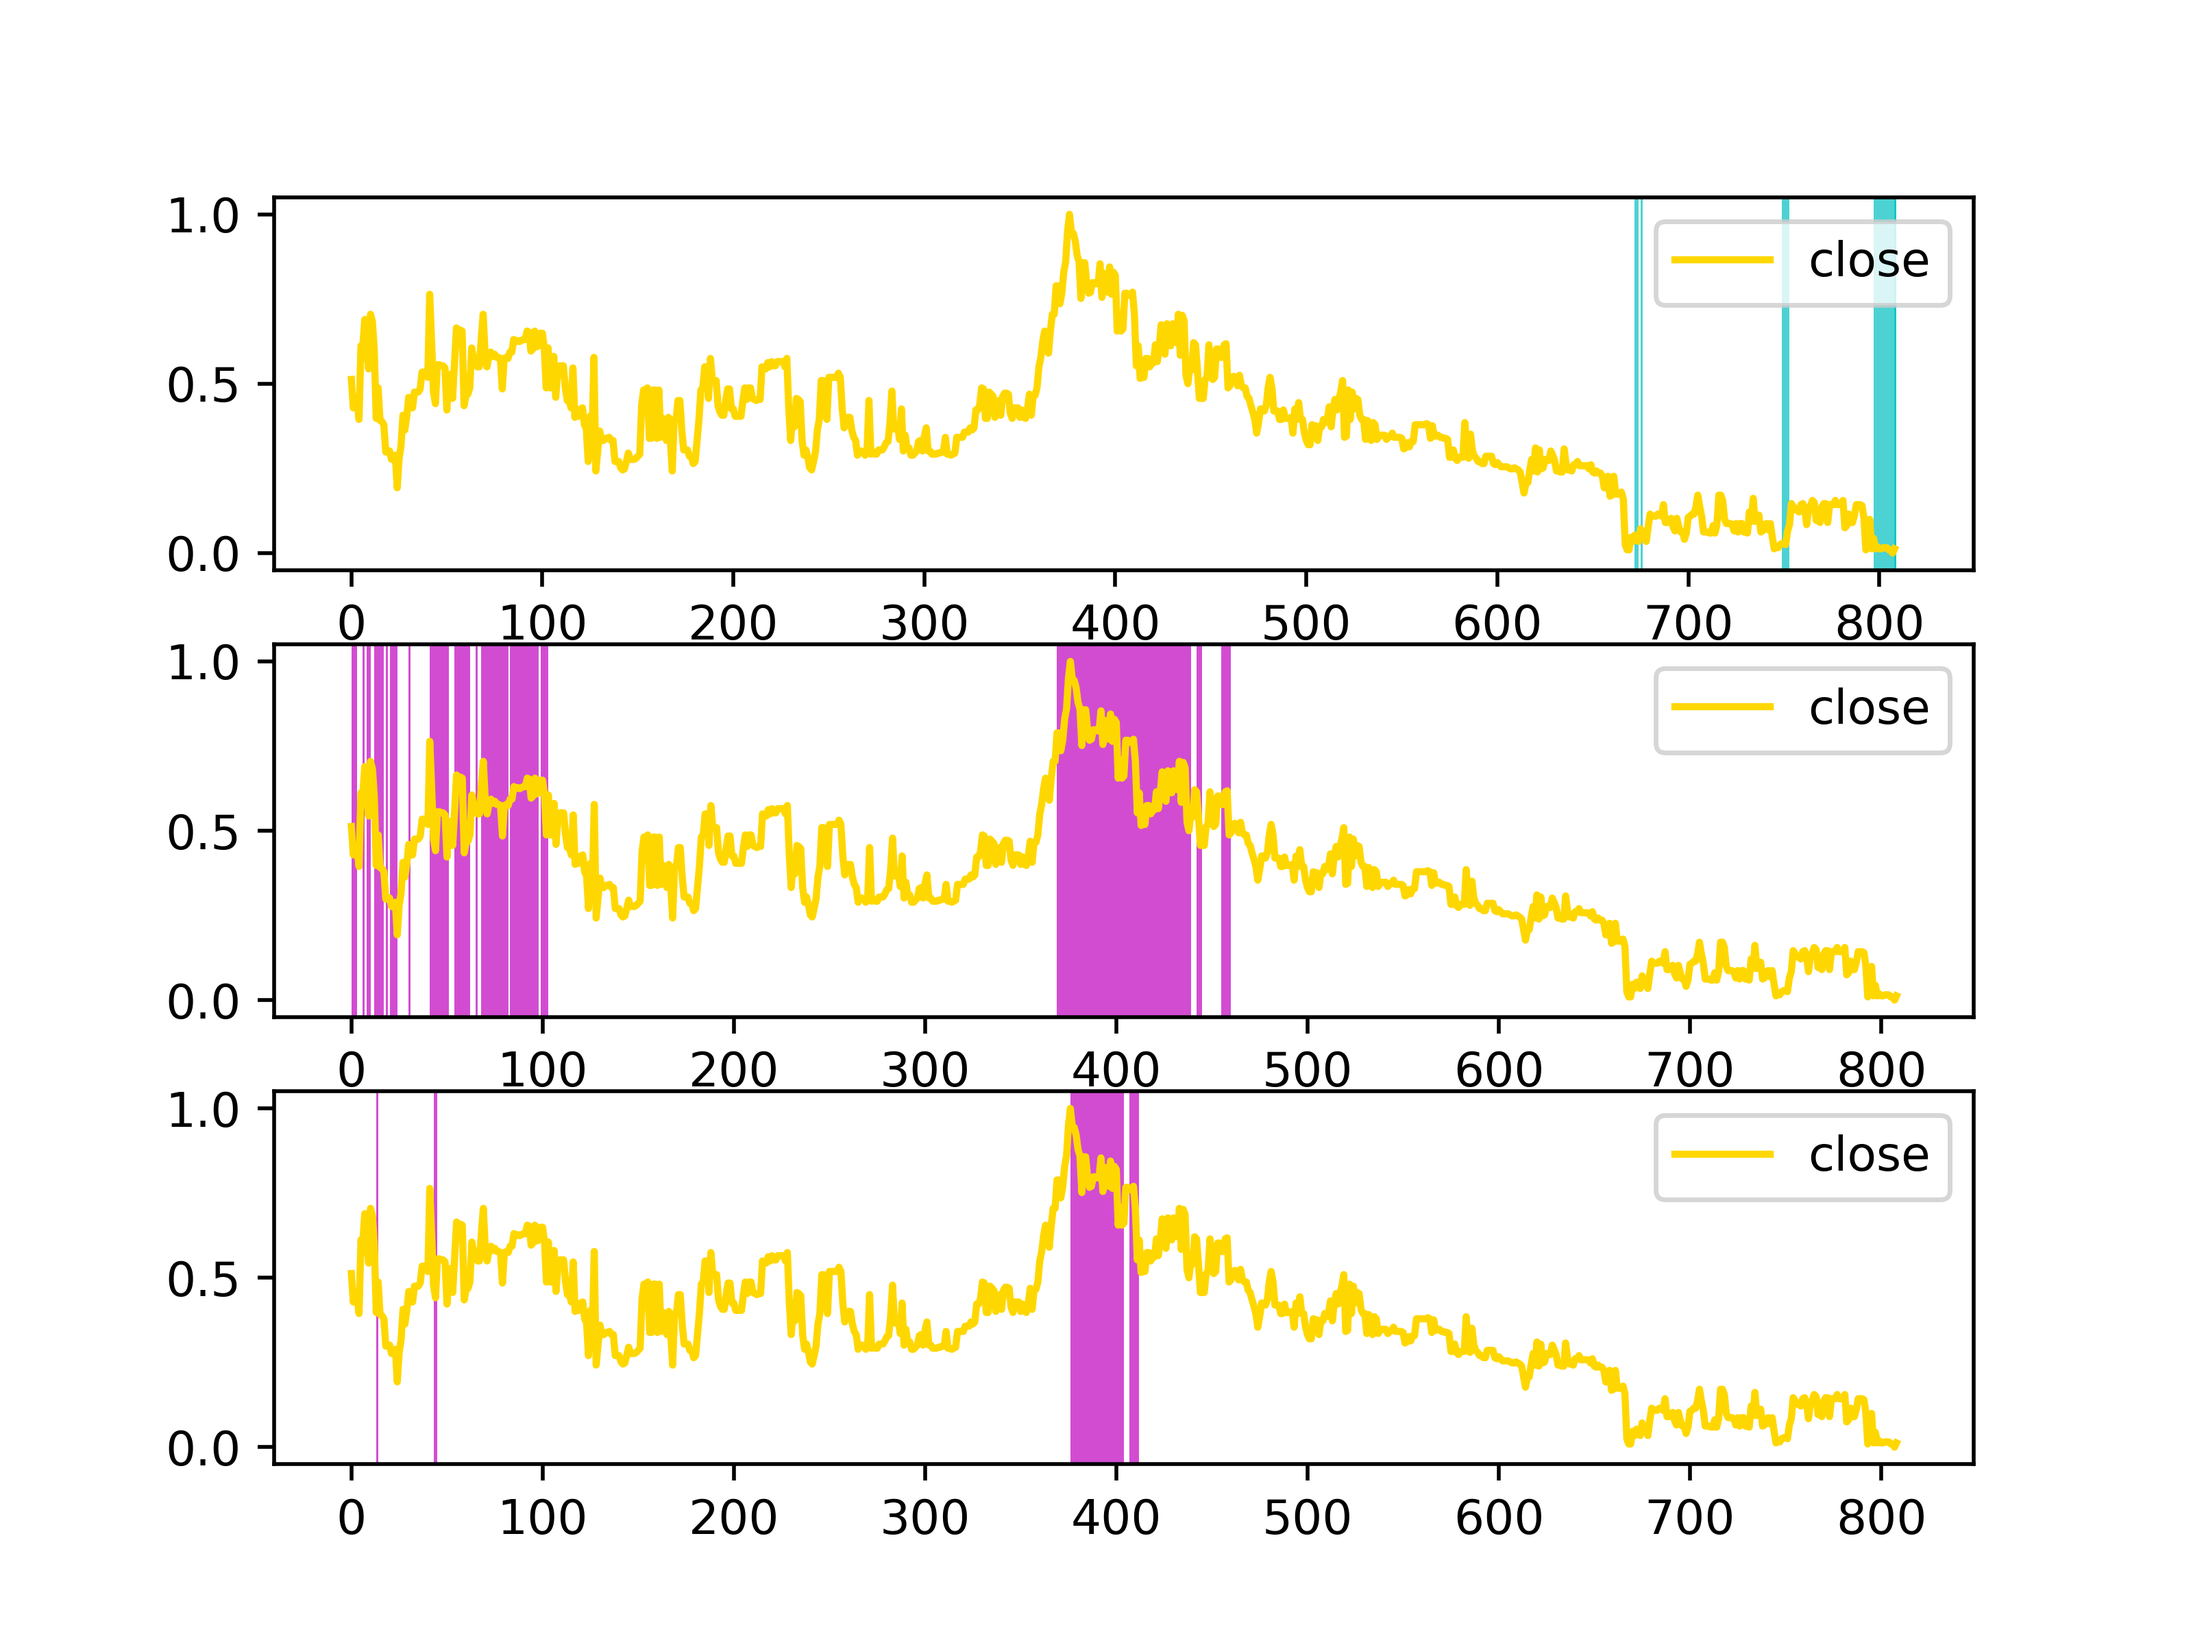
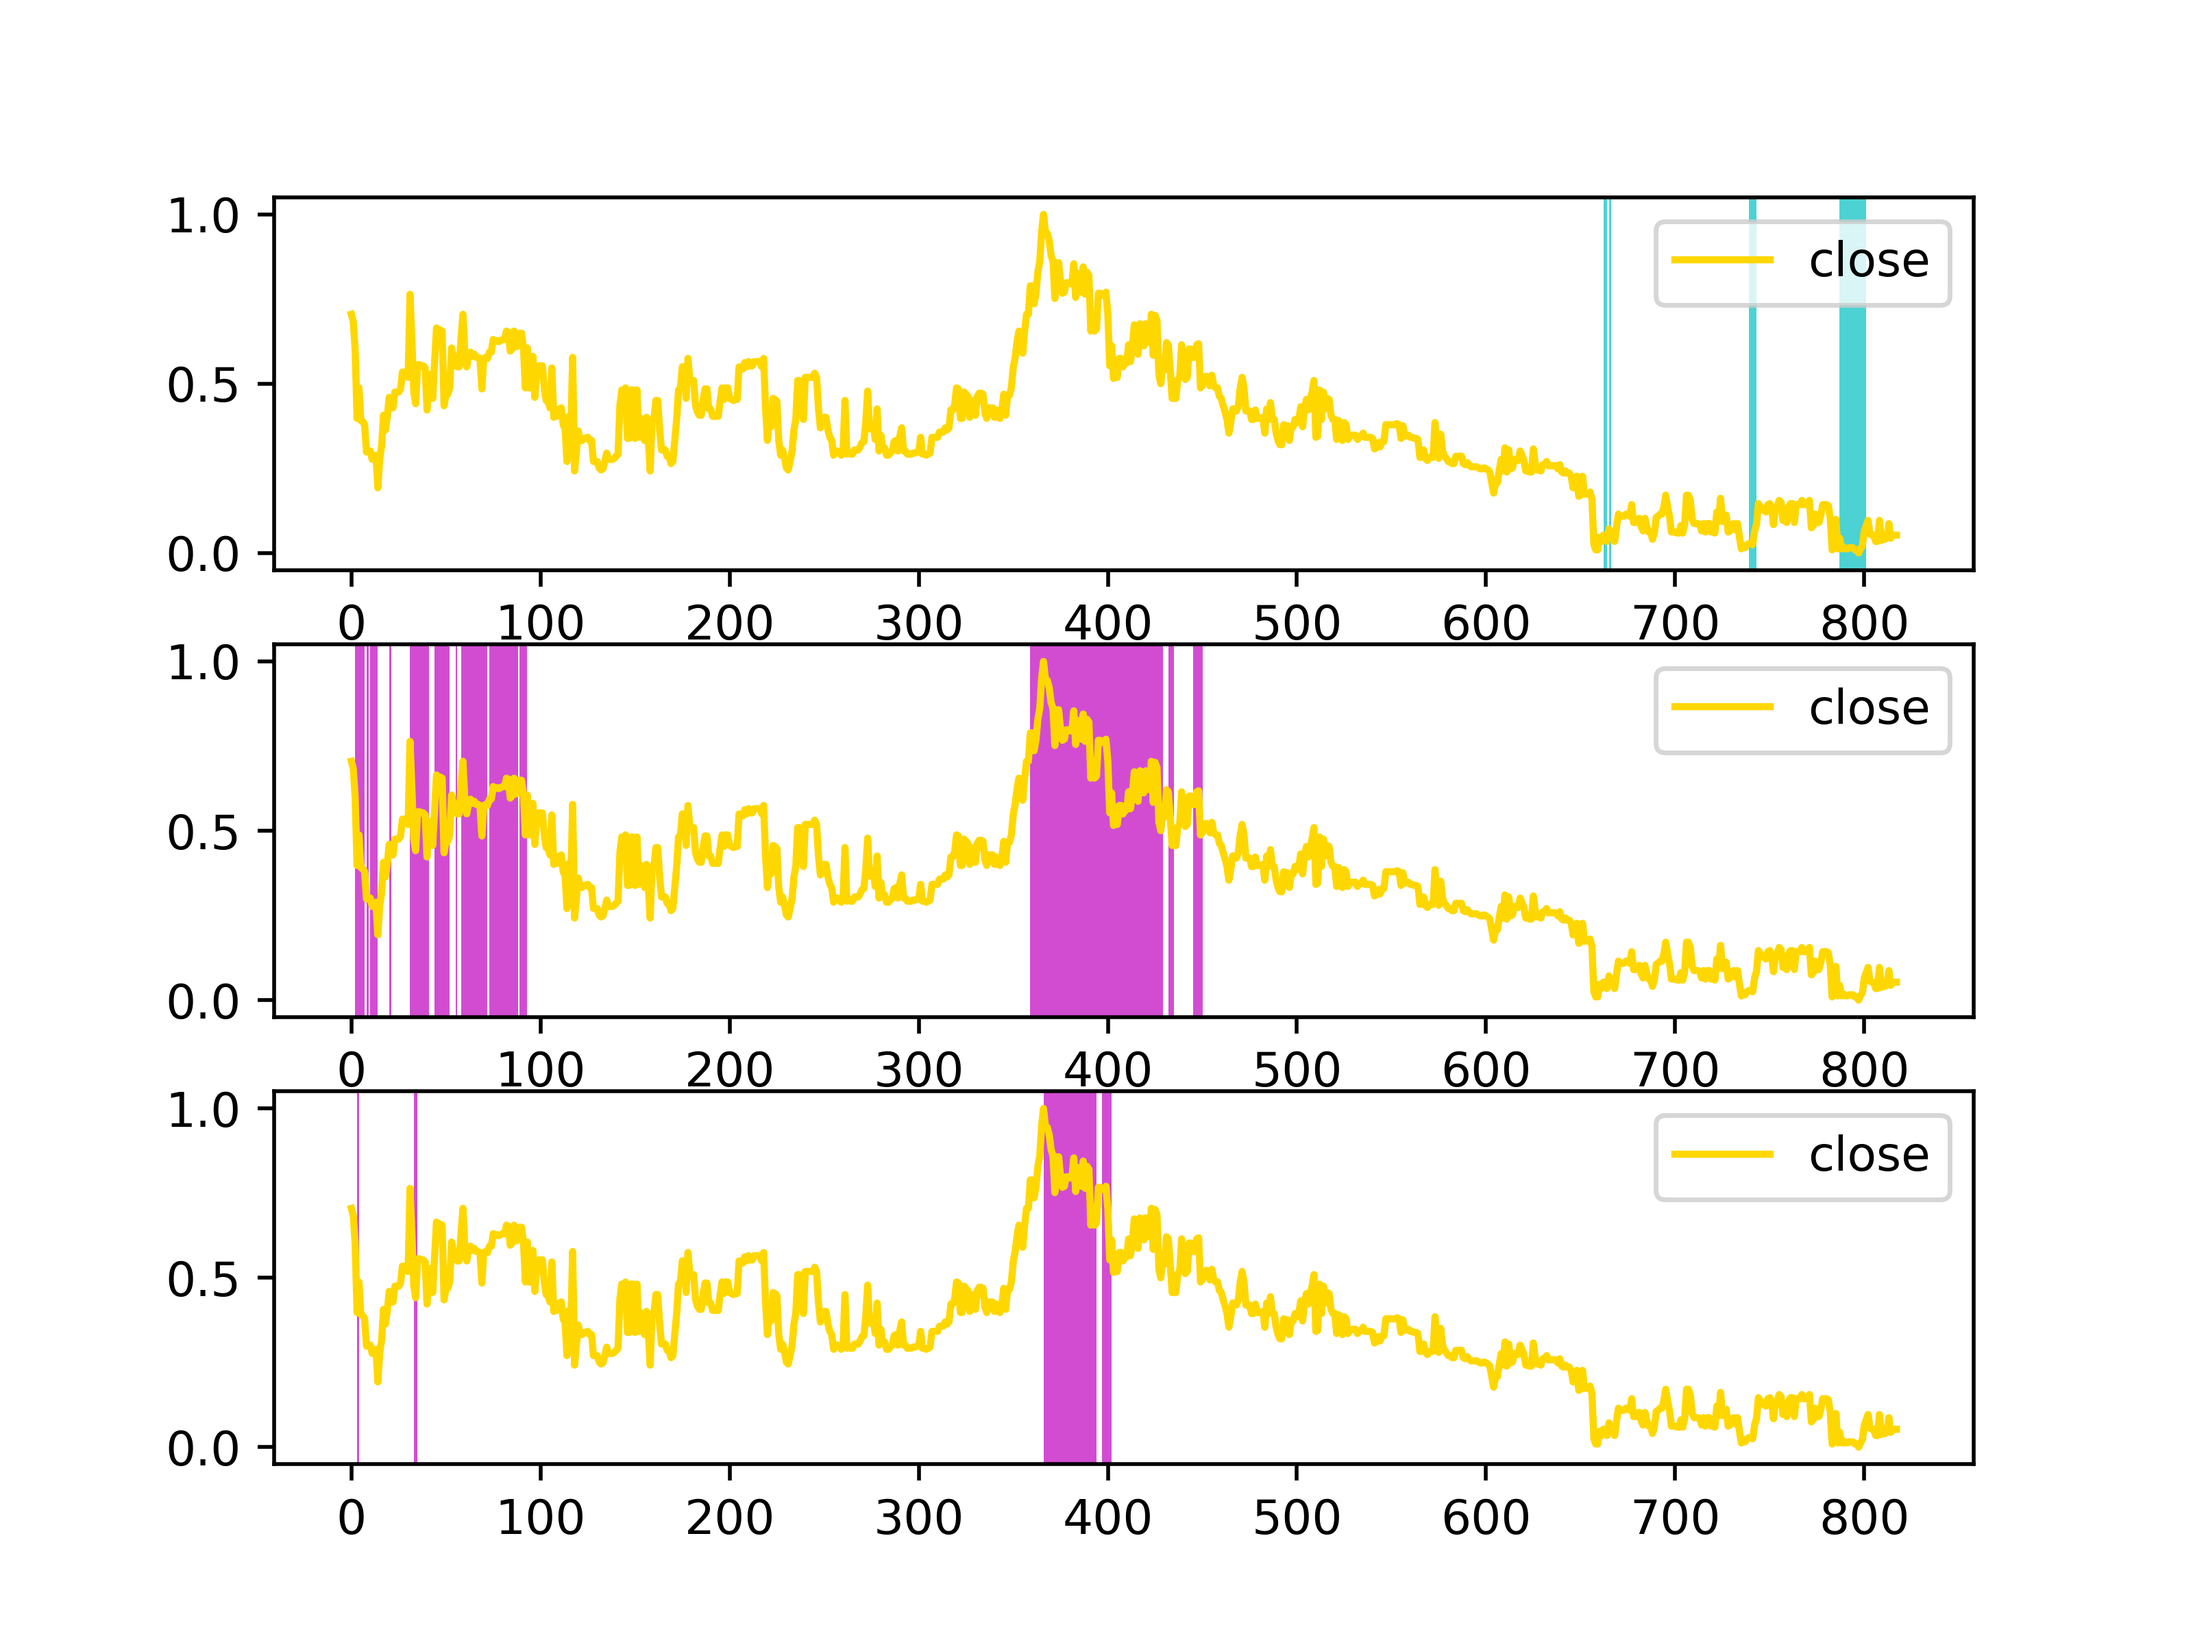
cascade modified

diff --git a/Make_pred - cascade.py b/Make_pred - cascade.py
@@ -17,7 +17,7 @@ if __name__ == '__main__':
     #           PARAMS           #
     input_data_length = 54
     model_num = '23 - 400000'
-    crop_size = None     # 이전 저점까지 slicing
+    crop_size = 0     # 이전 저점까지 slicing
     crop_size2 = crop_size
 
     limit_line = 1.  # 다음 저점을 고르기 위한 limit_line
@@ -64,6 +64,8 @@ if __name__ == '__main__':
         #           데이터가 끝날때까지 반복          #
         while True:
             # try:
+            print(type(file))
+
             X_test, _, sliced_ohlc = made_x_origin(file, input_data_length, model_num, check_span, 0, crop_size=crop_size, sudden_death=sudden_death)
             X_test2, _, sliced_ohlc2 = made_x_origin(file, input_data_length, model_num, check_span, 0, crop_size=crop_size2, sudden_death=sudden_death2)
                 # X_test, _ = low_high(Coin, input_data_length, sudden_death=1.)
@@ -109,48 +111,52 @@ if __name__ == '__main__':
 
                 #   Y_pred 에 1 이 존재하면, Plot Comparing
                 #   저점을 누적해서 찍어준다.
-                if get_fig == 1:
+                #                   찍을때 인덱스 번호가 달라진다.               #
 
-                    for m in range(len(Y_pred)):
-                        if (Y_pred[m] > 0.5) and (Y_pred[m] < 1.5):
-                            if m + 1 < len(Y_pred):
-                                spanlist_low.append((m, m + 1))
-                            else:
-                                spanlist_low.append((m - 1, m))
+                for m in np.arange(len(Y_pred)):
+                    if (Y_pred[m] > 0.5) and (Y_pred[m] < 1.5):
+                        m += crop_size
+                        if m + 1 < len(Y_pred):
+                            spanlist_low.append((m, m + 1))
+                        else:
+                            spanlist_low.append((m - 1, m))
 
-                    for m in range(len(Y_pred2)):
-                        if (Y_pred2[m] > 1.5) and (Y_pred2[m] < 2.5):
-                            if m + 1 < len(Y_pred2):
-                                spanlist_high.append((m, m + 1))
-                            else:
-                                spanlist_high.append((m - 1, m))
+                for m in np.arange(len(Y_pred2)):
+                    if (Y_pred2[m] > 1.5) and (Y_pred2[m] < 2.5):
+                        m += crop_size
+                        if m + 1 < len(Y_pred2):
+                            spanlist_high.append((m, m + 1))
+                        else:
+                            spanlist_high.append((m - 1, m))
 
-                    crop_size = spanlist_low[-1][0]
-                    crop_size2 = spanlist_low[-1][0]
+                crop_size = spanlist_low[-1][0]
+                crop_size2 = spanlist_low[-1][0]
+
+                if type(file) is str:
+                    result_ohlcv = sliced_ohlc
 
                 file = sliced_ohlc
-                result_ohlcv = sliced_ohlc
 
-    print(result_ohlcv)
+    if get_fig == 1:
 
-    plt.subplot(211)
-    # plt.subplot(313)
-    plt.plot(result_ohlcv[:, [1]], 'gold', label='close')
-    plt.plot(result_ohlcv[:, [-1]], 'b', label='MA')
-    plt.legend(loc='upper right')
-    for i in range(len(spanlist_low)):
-        plt.axvspan(spanlist_low[i][0], spanlist_low[i][1], facecolor='c', alpha=0.7)
+        plt.subplot(211)
+        # plt.subplot(313)
+        plt.plot(result_ohlcv[:, [1]], 'gold', label='close')
+        plt.plot(result_ohlcv[:, [-1]], 'b', label='MA')
+        plt.legend(loc='upper right')
+        for i in range(len(spanlist_low)):
+            plt.axvspan(spanlist_low[i][0], spanlist_low[i][1], facecolor='c', alpha=0.7)
 
-    plt.subplot(212)
-    # plt.subplot(313)
-    plt.plot(result_ohlcv[:, [1]], 'gold', label='close')
-    plt.plot(result_ohlcv[:, [-1]], 'b', label='MA')
-    plt.legend(loc='upper right')
-    for i in range(len(spanlist_high)):
-        plt.axvspan(spanlist_high[i][0], spanlist_high[i][1], facecolor='m', alpha=0.7)
+        plt.subplot(212)
+        # plt.subplot(313)
+        plt.plot(result_ohlcv[:, [1]], 'gold', label='close')
+        plt.plot(result_ohlcv[:, [-1]], 'b', label='MA')
+        plt.legend(loc='upper right')
+        for i in range(len(spanlist_high)):
+            plt.axvspan(spanlist_high[i][0], spanlist_high[i][1], facecolor='m', alpha=0.7)
 
-    plt.savefig('./Figure_pred/%s_%s/%s %s.png' % (input_data_length, model_num, Date, Coin), dpi=500)
-    plt.close()
+        plt.savefig('./Figure_pred/%s_%s/%s %s.png' % (input_data_length, model_num, Date, Coin), dpi=500)
+        plt.close()
 
 
 

diff --git a/Make_X2.py b/Make_X2.py
@@ -336,7 +336,7 @@ def made_x(file, input_data_length, model_num, check_span, get_fig, crop_size=50
         return X_test, dataY, sliced_ohlcv
 
 
-def made_x_origin(file, input_data_length, model_num, check_span, get_fig, crop_size=None, sudden_death=0):
+def made_x_origin(file, input_data_length, model_num, check_span, get_fig, crop_size=0, sudden_death=0):
 
     if type(file) is str:
         ohlcv_excel = pd.read_excel(dir + file, index_col=0)
@@ -392,7 +392,7 @@ def made_x_origin(file, input_data_length, model_num, check_span, get_fig, crop_
     else:
         ohlcv_data = file
 
-    if crop_size is not None:
+    if crop_size != 0:
         ohlcv_data = ohlcv_data[crop_size:]
 
     # 결측 데이터 제외

diff --git a/test.py b/test.py
@@ -7,8 +7,10 @@ pd.set_option('display.max_rows', 1500)
 
 # print(('d', 'c' in list('d1')))
 # for coin in pybithumb.get_ticker
-string = 'dfs.xlsx'
-print(string.endswith('.xlsx'))
+# string = 'dfs.xlsx'
+# print(string.endswith('.xlsx'))
+print(np.arange(10) + 1)
+
 # s():
 #     df_sample = pybithumb.get_ohlcv(coin, 'KRW', 'minute1')    #.loc['2020-02-16 22:57:00', :]    # 2020-02-16 22:57:00
 #     # df_sample = pd.read_excel('')
